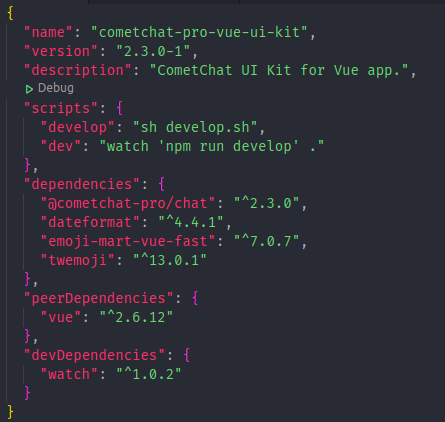
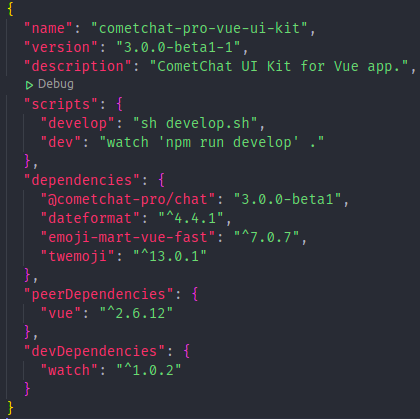
Initial Commit with CometChat v3

diff --git a/src/cometchat-pro-vue-ui-kit/src/components/Messages/CometChatMessageList/CometChatMessageList.vue b/src/cometchat-pro-vue-ui-kit/src/components/Messages/CometChatMessageList/CometChatMessageList.vue
@@ -542,7 +542,7 @@ export default {
         message.getReceiver().guid === this.item.guid
       ) {
         // if(!message.getReadAt()) {
-        //   CometChat.markAsRead(message.getId().toString(), message.getReceiverId(), message.getReceiverType());
+        //   CometChat.markAsRead(message);
         // }
 
         this.emitAction("groupUpdated", { message, key, group, options });
@@ -559,11 +559,7 @@ export default {
           message.getReceiverType() === CometChat.RECEIVER_TYPE.GROUP
         ) {
           if (!message.getReadAt()) {
-            CometChat.markAsRead(
-              message.getId().toString(),
-              message.getReceiverId(),
-              message.getReceiverType()
-            );
+            CometChat.markAsRead(message);
           }
 
           this.emitAction("callUpdated", { message });
@@ -573,11 +569,7 @@ export default {
           message.getReceiverType() === CometChat.RECEIVER_TYPE.USER
         ) {
           if (!message.getReadAt()) {
-            CometChat.markAsRead(
-              message.getId().toString(),
-              message.getSender().uid,
-              message.getReceiverType()
-            );
+            CometChat.markAsRead(message);
           }
 
           this.emitAction("callUpdated", { message });
@@ -655,11 +647,7 @@ export default {
         message.getReceiverId() === this.item.guid
       ) {
         if (!message.getReadAt()) {
-          CometChat.markAsRead(
-            message.getId().toString(),
-            message.getReceiverId(),
-            message.getReceiverType()
-          );
+          CometChat.markAsRead(message);
         }
 
         this.emitAction("messageReceived", { messages: [message] });
@@ -669,11 +657,7 @@ export default {
         message.getSender().uid === this.item.uid
       ) {
         if (!message.getReadAt()) {
-          CometChat.markAsRead(
-            message.getId().toString(),
-            message.getSender().uid,
-            message.getReceiverType()
-          );
+          CometChat.markAsRead(message);
         }
 
         this.emitAction("messageReceived", { messages: [message] });
@@ -689,11 +673,7 @@ export default {
         message.getReceiverId() === this.item.guid
       ) {
         if (!message.getReadAt()) {
-          CometChat.markAsRead(
-            message.getId().toString(),
-            message.getReceiverId(),
-            message.getReceiverType()
-          );
+          CometChat.markAsRead(message);
         }
 
         if (this.hasProperty(message, "metadata")) {
@@ -712,11 +692,7 @@ export default {
         message.getSender().uid === this.item.uid
       ) {
         if (!message.getReadAt()) {
-          CometChat.markAsRead(
-            message.getId().toString(),
-            message.getSender().uid,
-            message.getReceiverType()
-          );
+          CometChat.markAsRead(message);
         }
 
         if (this.hasProperty(message, "metadata")) {
@@ -838,19 +814,11 @@ export default {
             !message.getReadAt()
           ) {
             if (message.getReceiverType() === CometChat.RECEIVER_TYPE.USER) {
-              CometChat.markAsRead(
-                message.getId().toString(),
-                message.getSender().getUid(),
-                message.getReceiverType()
-              );
+              CometChat.markAsRead(message);
             } else if (
               message.getReceiverType() === CometChat.RECEIVER_TYPE.GROUP
             ) {
-              CometChat.markAsRead(
-                message.getId().toString(),
-                message.getReceiverId(),
-                message.getReceiverType()
-              );
+              CometChat.markAsRead(message);
             }
           }
           this.emitAction("messageRead", { message });

diff --git a/src/cometchat-pro-vue-ui-kit/src/components/Calls/CometChatIncomingCall/CometChatIncomingCall.vue b/src/cometchat-pro-vue-ui-kit/src/components/Calls/CometChatIncomingCall/CometChatIncomingCall.vue
@@ -168,14 +168,14 @@ export default {
      */
     markMessageAsRead(message) {
       try {
-        const receiverType = message.receiverType;
-        const receiverId =
-          receiverType === CometChat.RECEIVER_TYPE.USER
-            ? message.sender.uid
-            : message.receiverId;
+        // const receiverType = message.receiverType;
+        // const receiverId =
+        //   receiverType === CometChat.RECEIVER_TYPE.USER
+        //     ? message.sender.uid
+        //     : message.receiverId;
 
         if (this.hasProperty(message, "readAt") === false) {
-          CometChat.markAsRead(message.id, receiverId, receiverType);
+          CometChat.markAsRead(message);
         }
       } catch (error) {
         this.logError("Error marking message as read", error);

diff --git a/src/cometchat-pro-vue-ui-kit/src/components/Calls/CometChatOutgoingCall/CometChatOutgoingCall.vue b/src/cometchat-pro-vue-ui-kit/src/components/Calls/CometChatOutgoingCall/CometChatOutgoingCall.vue
@@ -377,14 +377,14 @@ export default {
      */
     markMessageAsRead(message) {
       try {
-        const type = message.receiverType;
-        const id =
-          type === CometChat.RECEIVER_TYPE.USER
-            ? message.sender.uid
-            : message.receiverId;
+        // const type = message.receiverType;
+        // const id =
+        //   type === CometChat.RECEIVER_TYPE.USER
+        //     ? message.sender.uid
+        //     : message.receiverId;
 
         if (this.hasProperty(message, "readAt") === false) {
-          CometChat.markAsRead(message.id, id, type);
+          CometChat.markAsRead(message);
         }
       } catch (error) {
         this.logError("Error marking message as read", error);

diff --git a/src/cometchat-pro-vue-ui-kit/src/mixins/cometchat-screens.js b/src/cometchat-pro-vue-ui-kit/src/mixins/cometchat-screens.js
@@ -144,11 +144,7 @@ export default {
             : incomingCallMessage.receiverId;
 
         if (this.hasProperty(incomingCallMessage, "readAt") === false) {
-          CometChat.markAsRead(
-            incomingCallMessage.id,
-            receiverId,
-            receiverType
-          );
+          CometChat.markAsRead(incomingCallMessage);
         }
 
         this.messageToMarkRead = incomingCallMessage;

diff --git a/src/CONSTS.js b/src/CONSTS.js
@@ -1,5 +1,5 @@
 export const COMETCHAT_CONSTANTS = {
-  APP_ID: "",
-  REGION: "",
-  AUTH_KEY: "",
+  APP_ID: "APP_ID",
+  REGION: "REGION",
+  AUTH_KEY: "AUTH_KEY",
 };

diff --git a/README.md b/README.md
@@ -48,7 +48,7 @@ CometChat Kitchen Sink Sample App (built using **CometChat UI Kit**) is a fully 
 
 ## Extensions
 
-[Thumbnail Generation](https://prodocs.cometchat.com/docs/extensions-thumbnail-generation) | [Link Preview](https://prodocs.cometchat.com/docs/extensions-link-preview) | [Rich Media Preview](https://prodocs.cometchat.com/docs/extensions-rich-media-preview) | [Smart Reply](https://prodocs.cometchat.com/docs/extensions-smart-reply)| [Emojis](https://prodocs.cometchat.com/docs/extensions-emojis) | [Polls](https://prodocs.cometchat.com/docs/extensions-polls) | [Reactions](https://prodocs.cometchat.com/docs/extensions-reactions) | [Stickers](https://prodocs.cometchat.com/docs/extensions-stickers)
+[Thumbnail Generation](https://prodocs.cometchat.com/v3.0-beta/docs/extensions-thumbnail-generation) | [Link Preview](https://prodocs.cometchat.com/v3.0-beta/docs/extensions-link-preview) | [Rich Media Preview](https://prodocs.cometchat.com/v3.0-beta/docs/extensions-rich-media-preview) | [Smart Reply](https://prodocs.cometchat.com/v3.0-beta/docs/extensions-smart-reply)| [Emojis](https://prodocs.cometchat.com/v3.0-beta/docs/extensions-emojis) | [Polls](https://prodocs.cometchat.com/v3.0-beta/docs/extensions-polls) | [Reactions](https://prodocs.cometchat.com/v3.0-beta/docs/extensions-reactions) | [Stickers](https://prodocs.cometchat.com/v3.0-beta/docs/extensions-stickers)
 
 <hr/>
 
@@ -74,11 +74,11 @@ Simply clone/ download this project.
 
 # Learn more about UI Kit
 
-Learn more about how to integrate [UI Kit](https://github.com/cometchat-pro/cometchat-pro-vue-ui-kit) inside your app.
+Learn more about how to integrate [UI Kit](https://github.com/cometchat-pro/cometchat-pro-vue-ui-kit/tree/v3) inside your app.
 
 # Troubleshooting
 
-- To read the full documentation on UI Kit integration visit our [Documentation](https://prodocs.cometchat.com/docs/vue-ui-kit).
+- To read the full documentation on UI Kit integration visit our [Documentation](https://prodocs.cometchat.com/v3.0-beta/docs/vue-ui-kit).
 
 - Facing any issues while integrating or installing the UI Kit please connect with us via real time support present in <a href="https://app.cometchat.com/">CometChat Dashboard.</a>
 

diff --git a/src/cometchat-pro-vue-ui-kit/README.md b/src/cometchat-pro-vue-ui-kit/README.md
@@ -58,7 +58,7 @@ Before you begin, ensure you have met the following requirements:
 ### iii. Add the CometChat dependency 📦
 
 ```javascript
-  npm install @cometchat-pro/chat@2.3.0 --save
+  npm install @cometchat-pro/chat@3.0.0-beta1 --save
 ```
 
 <br/>
@@ -133,7 +133,7 @@ CometChat.login(uid, authKey).then(
 - Clone this repository
 
 ```
-git clone https://github.com/cometchat-pro/cometchat-pro-vue-ui-kit.git
+git clone -b v3 https://github.com/cometchat-pro/cometchat-pro-vue-ui-kit.git
 ```
 
 - Copy the folder to your source folder.
@@ -175,13 +175,13 @@ Usage of application in project:
 
 # Checkout our sample app
 
-Visit our [Vue sample app](https://github.com/cometchat-pro/javascript-vue-chat-app) repo to run the Vue sample app.
+Visit our [Vue sample app](https://github.com/cometchat-pro/javascript-vue-chat-app/tree/v3) repo to run the Vue sample app.
 
 ---
 
 # Troubleshooting
 
-- To read the full documentation on UI Kit integration visit our [Documentation](https://prodocs.cometchat.com/docs/ui-kit-vue-js).
+- To read the full documentation on UI Kit integration visit our [Documentation](https://prodocs.cometchat.com/v3.0-beta/docs/vue-ui-kit).
 
 - Facing any issues while integrating or installing the UI Kit please connect with us via real time support present in <a href="https://app.cometchat.com/" target="_blank">CometChat Dashboard.</a>
 
